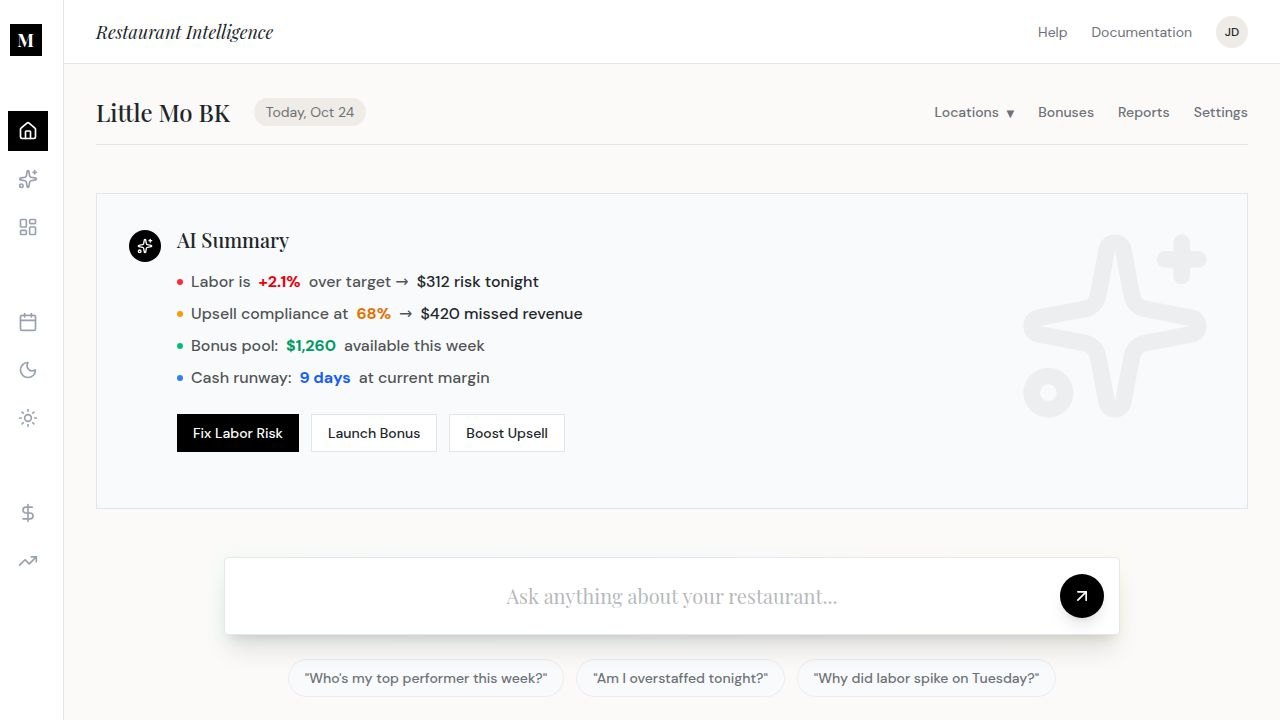
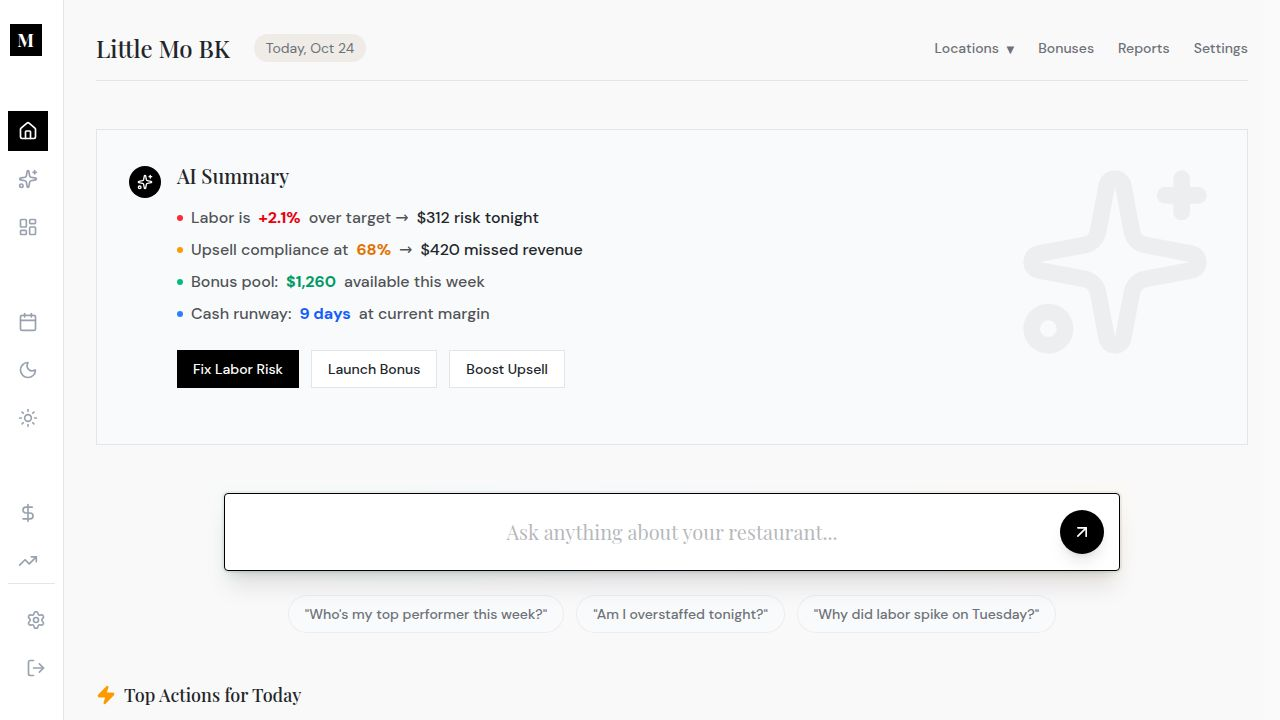
Move settings and logout to the bottom of the sidebar and remove top navbar
Remove the top header component and reposition the Settings and Logout options to the bottom of the sidebar component.

Replit-Commit-Author: Agent
Replit-Commit-Session-Id: 66e2d101-db07-469c-afac-9026ab45ddc1
Replit-Commit-Checkpoint-Type: full_checkpoint
Replit-Commit-Event-Id: 56b48aa2-de43-4cdc-bda0-e7f59563b9f5
Replit-Commit-Screenshot-Url: https://storage.googleapis.com/screenshot-production-us-central1/2ab0e987-2b9f-4586-a791-39bdca7aac19/66e2d101-db07-469c-afac-9026ab45ddc1/zMPanG5
Replit-Helium-Checkpoint-Created: true

diff --git a/client/src/components/layout.tsx b/client/src/components/layout.tsx
@@ -9,35 +9,34 @@ import {
   Sun, 
   DollarSign, 
   TrendingUp,
-  Check,
-  ChevronDown,
   Settings,
-  FileText,
-  Users,
-  Search,
-  ArrowUpRight
+  LogOut
 } from "lucide-react";
 import { cn } from "@/lib/utils";
 
-function SidebarItem({ icon: Icon, label, href }: { icon: any, label: string, href: string }) {
+function SidebarItem({ icon: Icon, label, href, onClick }: { icon: any, label: string, href?: string, onClick?: () => void }) {
   const [location] = useLocation();
-  const active = location === href;
+  const active = href ? location === href : false;
 
-  return (
-    <Link href={href}>
-      <a className={cn(
-        "h-10 flex items-center transition-all duration-300 mb-2 rounded-md mx-2 px-2.5",
-        "justify-start",
-        "w-10 group-hover:w-[calc(100%-1rem)]", 
-        active ? "bg-black text-white" : "text-gray-400 hover:text-black hover:bg-gray-100"
-      )}>
-        <Icon className="h-5 w-5 flex-shrink-0" />
-        <span className="ml-3 whitespace-nowrap overflow-hidden opacity-0 w-0 group-hover:w-auto group-hover:opacity-100 transition-all duration-300 delay-75 text-sm font-medium">
-          {label}
-        </span>
-      </a>
-    </Link>
+  const content = (
+    <div className={cn(
+      "h-10 flex items-center transition-all duration-300 mb-2 rounded-md mx-2 px-2.5 cursor-pointer",
+      "justify-start",
+      "w-10 group-hover:w-[calc(100%-1rem)]", 
+      active ? "bg-black text-white" : "text-gray-400 hover:text-black hover:bg-gray-100"
+    )}>
+      <Icon className="h-5 w-5 flex-shrink-0" />
+      <span className="ml-3 whitespace-nowrap overflow-hidden opacity-0 w-0 group-hover:w-auto group-hover:opacity-100 transition-all duration-300 delay-75 text-sm font-medium">
+        {label}
+      </span>
+    </div>
   );
+
+  if (href) {
+    return <Link href={href}>{content}</Link>;
+  }
+
+  return <button onClick={onClick} className="w-full text-left">{content}</button>;
 }
 
 function SidebarSection({ title, children }: { title: string, children: React.ReactNode }) {
@@ -83,27 +82,20 @@ export default function Layout({ children }: { children: React.ReactNode }) {
             <SidebarItem icon={TrendingUp} label="Upsell" href="/motivate/upsell" />
           </SidebarSection>
         </nav>
+
+        {/* Footer Settings & Logout */}
+        <div className="mt-auto pt-4 border-t border-border mx-2">
+           <SidebarItem icon={Settings} label="Settings" href="/settings" />
+           <SidebarItem 
+             icon={LogOut} 
+             label="Logout" 
+             onClick={() => console.log("Logging out...")} 
+           />
+        </div>
       </aside>
 
       {/* Main Content */}
-      <main className="flex-1 overflow-auto">
-        {/* Header */}
-        <header className="h-16 px-8 flex items-center justify-between bg-white border-b border-border sticky top-0 z-10">
-           <div className="flex items-center gap-4 text-sm text-muted-foreground">
-             <span className="font-serif text-foreground text-lg italic">Restaurant Intelligence</span>
-           </div>
-           
-           <div className="flex items-center gap-6">
-             <button className="text-sm text-muted-foreground hover:text-foreground transition-colors">Help</button>
-             <button className="text-sm text-muted-foreground hover:text-foreground transition-colors">Documentation</button>
-             <Link href="/settings">
-               <button className="h-8 w-8 bg-secondary rounded-full flex items-center justify-center text-xs font-medium hover:bg-secondary/70 transition-colors" title="Settings">
-                 JD
-               </button>
-             </Link>
-           </div>
-        </header>
-
+      <main className="flex-1 overflow-auto bg-gray-50/30">
         {children}
       </main>
     </div>
